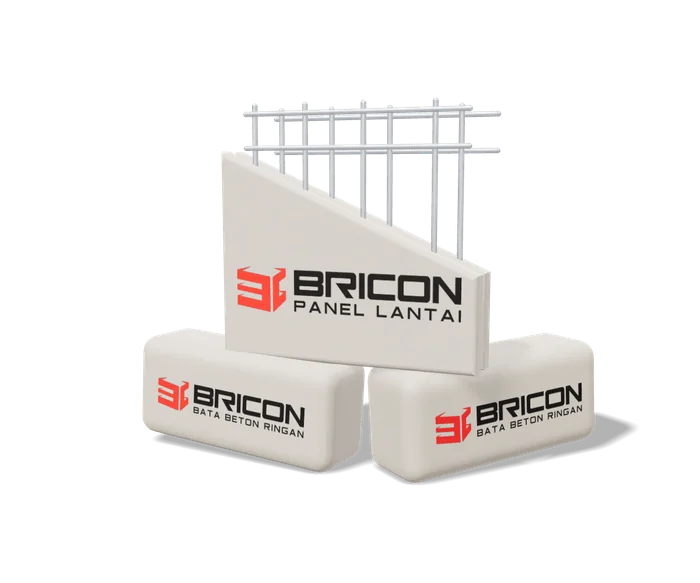
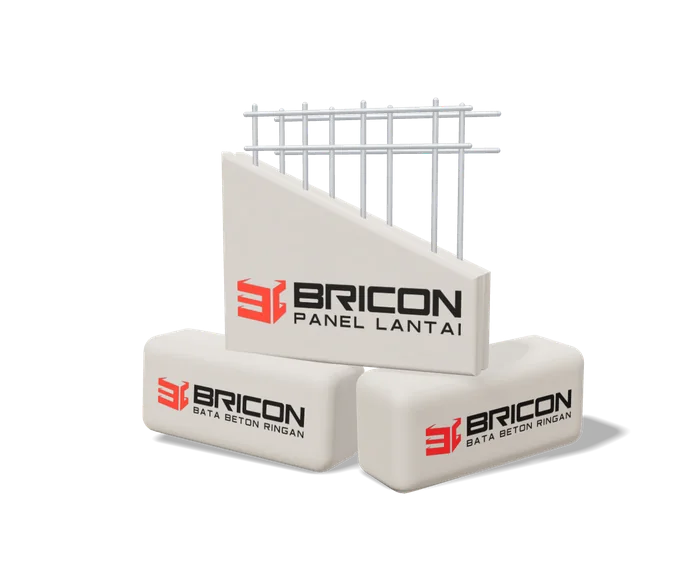
feat: loader melayang polos, posisi 3D baru, teks lebih natural, OG baru
Nilai ?atur Reyhan dipakai dan hero dirender ulang, merk panel hero diturunkan. Loader kembali seperti dulu: bata dan panel polos tanpa merk melayang di posisi lama, lalu menyusun sambil merk muncul. Halaman tidak bisa di-scroll selama loading. Semua teks dibuat lebih natural, headline hero tetap 2 baris tanpa pergeseran layout, dan OG image baru dengan headline 2 baris dan 3 badge sesuai web.

Claude-Session: https://claude.ai/code/session_01XkrxM7aJVBU55g7YgcUYVG

Changed region(s): [[0.51, 0.5866, 0.9, 0.8645], [0.33, 0.4631, 0.66, 0.5866], [0.78, 0.5557, 0.81, 0.5866]]

diff --git a/index.html b/index.html
@@ -52,7 +52,7 @@
 <meta property="og:title" content="Bricon Partner — Bata Ringan &amp; Panel Lantai Jawa Timur">
 <meta property="og:description" content="Bata ringan &amp; panel lantai BRICON berteknologi Microbubble. Stok lengkap, pengiriman cepat, kualitas SNI. Konsultasi gratis via WhatsApp.">
 <meta property="og:locale" content="id_ID">
-<meta property="og:image" content="https://bricon-partner.com/assets/og-image.jpg?v=20261125">
+<meta property="og:image" content="https://bricon-partner.com/assets/og-image.jpg?v=r7">
 <meta property="og:image:width" content="1200">
 <meta property="og:image:height" content="630">
 <meta property="og:image:alt" content="Bricon Partner — Bata Ringan &amp; Panel Lantai BRICON Jawa Timur">
@@ -61,7 +61,7 @@
 <meta name="twitter:card" content="summary_large_image">
 <meta name="twitter:title" content="Bricon Partner — Bata Ringan &amp; Panel Lantai Jawa Timur">
 <meta name="twitter:description" content="Bata ringan &amp; panel lantai BRICON berteknologi Microbubble. Stok lengkap, pengiriman cepat, kualitas SNI.">
-<meta name="twitter:image" content="https://bricon-partner.com/assets/og-image.jpg?v=20261125">
+<meta name="twitter:image" content="https://bricon-partner.com/assets/og-image.jpg?v=r7">
 
 <!-- Canonical -->
 <link rel="canonical" href="https://bricon-partner.com/">
@@ -78,7 +78,7 @@
   "alternateName": ["Bata Ringan Bricon Partner"],
   "description": "Bricon Partner — penyedia Bata Ringan & Panel Lantai BRICON berteknologi Microbubble di Jawa Timur. Stok lengkap, pengiriman cepat, kualitas SNI.",
   "url": "https://bricon-partner.com/",
-  "image": "https://bricon-partner.com/assets/og-image.jpg?v=20261125",
+  "image": "https://bricon-partner.com/assets/og-image.jpg?v=r7",
   "logo": "https://bricon-partner.com/assets/images/bricon-partner-logo-square.png?v=20261123",
   "telephone": "+6285184028183",
   "priceRange": "$$",
@@ -192,7 +192,7 @@
 html{scroll-padding-top:90px}
 html,body{overflow-x:clip}
 body{margin:0;background:var(--paper);color:var(--ink);font-family:"Poppins","Poppins Fallback",sans-serif;-webkit-font-smoothing:antialiased}
-body.locked{overflow:hidden}
+body.locked,html:has(body.locked){overflow:hidden;overscroll-behavior:none}
 a{color:inherit}
 img{max-width:100%;display:block}
 button{font-family:inherit}
@@ -273,9 +273,10 @@ button{font-family:inherit}
 .hero-vis.full .hcomp{visibility:hidden}
 .hstage .hb{translate:-50% -50%}
 #lpz{position:fixed;inset:0;z-index:52;pointer-events:none}
-#lpz .lp{position:absolute;transform-origin:0 0;will-change:transform}
+#lpz .lp,#lpz .lh{position:absolute;transform-origin:50% 50%;will-change:transform,opacity}
+#lpz .lh{opacity:0;display:block;height:auto}
 #lpz .lp img{display:block;width:100%;height:auto;animation:lpb 3.2s ease-in-out infinite}
-#lpz .lp:nth-child(2) img{animation-delay:-1.1s}#lpz .lp:nth-child(3) img{animation-delay:-2.2s}
+#lpz .lp:nth-of-type(2) img{animation-delay:-1.1s}#lpz .lp:nth-of-type(3) img{animation-delay:-2.2s}
 @keyframes lpb{50%{transform:translateY(-12px) rotate(3deg)}}
 .full3d #lpz{display:none}
 .hb{position:absolute;z-index:3;display:inline-flex;align-items:center;gap:8px;padding:9px 15px 9px 11px;border-radius:999px;color:#fff;font-weight:700;font-size:14px;white-space:nowrap;pointer-events:none;
@@ -302,7 +303,7 @@ button{font-family:inherit}
 .hA{background:var(--dark);color:#fff}
 .hA .hero-grid{grid-template-columns:minmax(0,1.05fr) minmax(0,.95fr);gap:24px;padding:84px 0 30px}
 .hA .eyebrow{background:rgba(255,255,255,.08);color:#E6E6EA}
-.hA .h1{font-size:clamp(36px,4.3vw,60px)}.hA .h1 em{font-style:normal;color:var(--yellow)}
+.hA .h1{font-size:clamp(36px,4.3vw,60px)}.hA .h1{height:2.12em;line-height:1.06}.hA .h1 em{font-style:normal;color:var(--yellow)}
 .hA .lead{color:var(--soft)}
 .hA .hero-vis{height:520px}
 .hA .c1{left:0;bottom:3%}.hA .c2{right:0;top:4%}
@@ -787,10 +788,10 @@ button{font-family:inherit}
 <!-- LOADER -->
 <div id="ld" role="status" aria-label="Memuat halaman">
   <img class="logo" src="assets/images/bricon-partner-logo-square.svg" alt="BRICON Partner">
-  <div class="cap"><span class="mph" aria-hidden="true"><svg class="m1"><use href="#i-bata"/></svg><svg class="m2"><use href="#i-panel"/></svg></span>Menyiapkan bata &amp; panel<span class="bar"><i></i></span></div>
+  <div class="cap"><span class="mph" aria-hidden="true"><svg class="m1"><use href="#i-bata"/></svg><svg class="m2"><use href="#i-panel"/></svg></span>Sebentar ya, lagi disiapkan<span class="bar"><i></i></span></div>
 </div>
 <canvas id="g3" aria-hidden="true"></canvas>
-<div id="lpz" aria-hidden="true"><div class="lp" data-b="0.1967,0.5550,0.3317"><img src="assets/images/piece-0.webp" alt="" width="398" height="263"></div><div class="lp" data-b="0.5183,0.5630,0.3375"><img src="assets/images/piece-1.webp" alt="" width="405" height="273"></div><div class="lp" data-b="0.3092,0.1590,0.4142"><img src="assets/images/piece-2.webp" alt="" width="497" height="495"></div></div>
+<div id="lpz" aria-hidden="true"><div class="lp" data-r="0.0360,0.2880,0.2970"><img src="assets/images/float-0.webp" alt="" width="297" height="241"></div><img class="lh" data-r="0.1967,0.5550,0.3317" src="assets/images/piece-0.webp" alt="" width="398" height="263"><div class="lp" data-r="0.6660,0.5640,0.3150"><img src="assets/images/float-1.webp" alt="" width="315" height="194"></div><img class="lh" data-r="0.5017,0.5660,0.3400" src="assets/images/piece-1.webp" alt="" width="408" height="289"><div class="lp" data-r="0.6020,0.0000,0.3070"><img src="assets/images/float-2.webp" alt="" width="307" height="366"></div><img class="lh" data-r="0.3092,0.1590,0.4142" src="assets/images/piece-2.webp" alt="" width="497" height="495"></div>
 
 <header class="nav">
   <div class="nav-in">
@@ -811,7 +812,7 @@ button{font-family:inherit}
       <div class="hero-copy">
         <span class="eyebrow"><b><svg><use href="#i-seal"/></svg>Partner Resmi</b>BRICON Jawa Timur</span>
         <h1 class="h1 d">Bangun lebih cepat dengan bata yang <em>lebih ringan.</em></h1>
-        <p class="lead">Bata ringan &amp; panel lantai BRICON berteknologi Microbubble.<span class="d-only"> Kuat, presisi, dan siap dikirim ke proyekmu di seluruh Jawa Timur.</span></p>
+        <p class="lead">Bata ringan &amp; panel lantai BRICON, langsung dari pabrik.<span class="d-only"> Kami kirim pakai truk ke proyekmu di mana pun di Jawa Timur.</span></p>
         <div class="cta-row">
           <button class="btn btn-red" type="button" data-form="hero"><svg><use href="#i-wa"/></svg>Pesan lewat WhatsApp</button>
           <a class="btn btn-soft-d" href="#produk"><span class="d-only">Lihat ukuran &amp; spesifikasi</span><span class="m-only">Produk</span></a>
@@ -820,16 +821,16 @@ button{font-family:inherit}
       <div class="hero-vis" id="heroVis">
         <div class="floor" aria-hidden="true"><svg viewBox="0 0 100 50" preserveAspectRatio="none"><line x1="50" y1="0" x2="-70.00" y2="50"/><line x1="50" y1="0" x2="-62.50" y2="50"/><line x1="50" y1="0" x2="-55.00" y2="50"/><line x1="50" y1="0" x2="-47.50" y2="50"/><line x1="50" y1="0" x2="-40.00" y2="50"/><line x1="50" y1="0" x2="-32.50" y2="50"/><line x1="50" y1="0" x2="-25.00" y2="50"/><line x1="50" y1="0" x2="-17.50" y2="50"/><line x1="50" y1="0" x2="-10.00" y2="50"/><line x1="50" y1="0" x2="-2.50" y2="50"/><line x1="50" y1="0" x2="5.00" y2="50"/><line x1="50" y1="0" x2="12.50" y2="50"/><line x1="50" y1="0" x2="20.00" y2="50"/><line x1="50" y1="0" x2="27.50" y2="50"/><line x1="50" y1="0" x2="35.00" y2="50"/><line x1="50" y1="0" x2="42.50" y2="50"/><line x1="50" y1="0" x2="50.00" y2="50"/><line x1="50" y1="0" x2="57.50" y2="50"/><line x1="50" y1="0" x2="65.00" y2="50"/><line x1="50" y1="0" x2="72.50" y2="50"/><line x1="50" y1="0" x2="80.00" y2="50"/><line x1="50" y1="0" x2="87.50" y2="50"/><line x1="50" y1="0" x2="95.00" y2="50"/><line x1="50" y1="0" x2="102.50" y2="50"/><line x1="50" y1="0" x2="110.00" y2="50"/><line x1="50" y1="0" x2="117.50" y2="50"/><line x1="50" y1="0" x2="125.00" y2="50"/><line x1="50" y1="0" x2="132.50" y2="50"/><line x1="50" y1="0" x2="140.00" y2="50"/><line x1="50" y1="0" x2="147.50" y2="50"/><line x1="50" y1="0" x2="155.00" y2="50"/><line x1="50" y1="0" x2="162.50" y2="50"/><line x1="50" y1="0" x2="170.00" y2="50"/><line x1="-60" y1="50.00" x2="160" y2="50.00"/><line x1="-60" y1="37.88" x2="160" y2="37.88"/><line x1="-60" y1="30.49" x2="160" y2="30.49"/><line x1="-60" y1="25.51" x2="160" y2="25.51"/><line x1="-60" y1="21.93" x2="160" y2="21.93"/><line x1="-60" y1="19.23" x2="160" y2="19.23"/><line x1="-60" y1="17.12" x2="160" y2="17.12"/><line x1="-60" y1="15.43" x2="160" y2="15.43"/><line x1="-60" y1="14.04" x2="160" y2="14.04"/><line x1="-60" y1="12.89" x2="160" y2="12.89"/><line x1="-60" y1="11.90" x2="160" y2="11.90"/><line x1="-60" y1="11.06" x2="160" y2="11.06"/><line x1="-60" y1="10.33" x2="160" y2="10.33"/><line x1="-60" y1="9.69" x2="160" y2="9.69"/><line x1="-60" y1="9.12" x2="160" y2="9.12"/><line x1="-60" y1="8.62" x2="160" y2="8.62"/><line x1="-60" y1="8.17" x2="160" y2="8.17"/><line x1="-60" y1="7.76" x2="160" y2="7.76"/><line x1="-60" y1="7.40" x2="160" y2="7.40"/><line x1="-60" y1="7.06" x2="160" y2="7.06"/><line x1="-60" y1="6.76" x2="160" y2="6.76"/><line x1="-60" y1="6.48" x2="160" y2="6.48"/><line x1="-60" y1="6.22" x2="160" y2="6.22"/><line x1="-60" y1="5.98" x2="160" y2="5.98"/><line x1="-60" y1="5.76" x2="160" y2="5.76"/><line x1="-60" y1="5.56" x2="160" y2="5.56"/><line x1="-60" y1="5.36" x2="160" y2="5.36"/><line x1="-60" y1="5.19" x2="160" y2="5.19"/><line x1="-60" y1="5.02" x2="160" y2="5.02"/><line x1="-60" y1="4.86" x2="160" y2="4.86"/><line x1="-60" y1="4.72" x2="160" y2="4.72"/><line x1="-60" y1="4.58" x2="160" y2="4.58"/><line x1="-60" y1="4.45" x2="160" y2="4.45"/><line x1="-60" y1="4.33" x2="160" y2="4.33"/><line x1="-60" y1="4.21" x2="160" y2="4.21"/><line x1="-60" y1="4.10" x2="160" y2="4.10"/><line x1="-60" y1="3.99" x2="160" y2="3.99"/><line x1="-60" y1="3.89" x2="160" y2="3.89"/><line x1="-60" y1="3.80" x2="160" y2="3.80"/><line x1="-60" y1="3.71" x2="160" y2="3.71"/><line x1="-60" y1="3.62" x2="160" y2="3.62"/><line x1="-60" y1="3.54" x2="160" y2="3.54"/><line x1="-60" y1="3.46" x2="160" y2="3.46"/><line x1="-60" y1="3.39" x2="160" y2="3.39"/><line x1="-60" y1="3.32" x2="160" y2="3.32"/><line x1="-60" y1="3.25" x2="160" y2="3.25"/><line x1="-60" y1="3.18" x2="160" y2="3.18"/><line x1="-60" y1="3.12" x2="160" y2="3.12"/><line x1="-60" y1="3.06" x2="160" y2="3.06"/><line x1="-60" y1="3.00" x2="160" y2="3.00"/><line x1="-60" y1="2.94" x2="160" y2="2.94"/><line x1="-60" y1="2.89" x2="160" y2="2.89"/><line x1="-60" y1="2.83" x2="160" y2="2.83"/><line x1="-60" y1="2.78" x2="160" y2="2.78"/><line x1="-60" y1="2.74" x2="160" y2="2.74"/><line x1="-60" y1="2.69" x2="160" y2="2.69"/><line x1="-60" y1="2.64" x2="160" y2="2.64"/><line x1="-60" y1="2.60" x2="160" y2="2.60"/><line x1="-60" y1="2.56" x2="160" y2="2.56"/><line x1="-60" y1="2.52" x2="160" y2="2.52"/><line x1="-60" y1="2.48" x2="160" y2="2.48"/><line x1="-60" y1="2.44" x2="160" y2="2.44"/><line x1="-60" y1="2.40" x2="160" y2="2.40"/><line x1="-60" y1="2.36" x2="160" y2="2.36"/><line x1="-60" y1="2.33" x2="160" y2="2.33"/><line x1="-60" y1="2.29" x2="160" y2="2.29"/><line x1="-60" y1="2.26" x2="160" y2="2.26"/><line x1="-60" y1="2.23" x2="160" y2="2.23"/><line x1="-60" y1="2.20" x2="160" y2="2.20"/><line x1="-60" y1="2.17" x2="160" y2="2.17"/><line x1="-60" y1="2.14" x2="160" y2="2.14"/><line x1="-60" y1="2.11" x2="160" y2="2.11"/><line x1="-60" y1="2.08" x2="160" y2="2.08"/><line x1="-60" y1="2.05" x2="160" y2="2.05"/><line x1="-60" y1="2.03" x2="160" y2="2.03"/><line x1="-60" y1="2.00" x2="160" y2="2.00"/><line x1="-60" y1="1.97" x2="160" y2="1.97"/><line x1="-60" y1="1.95" x2="160" y2="1.95"/><line x1="-60" y1="1.93" x2="160" y2="1.93"/><line x1="-60" y1="1.90" x2="160" y2="1.90"/><line x1="-60" y1="1.88" x2="160" y2="1.88"/><line x1="-60" y1="1.86" x2="160" y2="1.86"/><line x1="-60" y1="1.84" x2="160" y2="1.84"/><line x1="-60" y1="1.81" x2="160" y2="1.81"/><line x1="-60" y1="1.79" x2="160" y2="1.79"/><line x1="-60" y1="1.77" x2="160" y2="1.77"/><line x1="-60" y1="1.75" x2="160" y2="1.75"/><line x1="-60" y1="1.73" x2="160" y2="1.73"/><line x1="-60" y1="1.71" x2="160" y2="1.71"/><line x1="-60" y1="1.70" x2="160" y2="1.70"/><line x1="-60" y1="1.68" x2="160" y2="1.68"/><line x1="-60" y1="1.66" x2="160" y2="1.66"/><line x1="-60" y1="1.64" x2="160" y2="1.64"/><line x1="-60" y1="1.63" x2="160" y2="1.63"/><line x1="-60" y1="1.61" x2="160" y2="1.61"/></svg></div>
         <div class="hstage" id="hstage">
-          <span class="glow" aria-hidden="true" style="left:55.01%;top:62.03%;width:110.0%"></span>
+          <span class="glow" aria-hidden="true" style="left:56.20%;top:58.01%;width:130.0%"></span>
           <img class="hcomp" src="assets/images/hero-3d-1200.webp" srcset="assets/images/hero-3d-700.webp 700w, assets/images/hero-3d-1200.webp 1200w" sizes="(max-width:900px) 100vw, 46vw" width="1200" height="1000" alt="Bata ringan dan panel lantai BRICON" fetchpriority="high">
-          <span class="hb hb-stok" aria-hidden="true" style="left:20.00%;top:50.00%"><svg><use href="#i-box"/></svg>Stok Lengkap</span>
-          <span class="hb hb-kirim" aria-hidden="true" style="left:39.99%;top:90.02%"><svg><use href="#i-bolt"/></svg>Pengiriman Cepat</span>
-          <span class="hb hb-mutu" aria-hidden="true" style="left:79.00%;top:28.00%"><svg><use href="#i-seal"/></svg>Kualitas SNI</span>
+          <span class="hb hb-stok" aria-hidden="true" style="left:29.30%;top:41.29%"><svg><use href="#i-box"/></svg>Stok Lengkap</span>
+          <span class="hb hb-kirim" aria-hidden="true" style="left:33.35%;top:71.13%"><svg><use href="#i-bolt"/></svg>Pengiriman Cepat</span>
+          <span class="hb hb-mutu" aria-hidden="true" style="left:74.65%;top:53.46%"><svg><use href="#i-seal"/></svg>Kualitas SNI</span>
         </div>
       </div>
     </div>
     <div class="hero-foot">
-      <span><svg><use href="#i-check"/></svg>Dipercaya kontraktor, tukang &amp; owner proyek</span>
+      <span><svg><use href="#i-check"/></svg>Dipakai kontraktor, tukang &amp; pemilik rumah</span>
       <span><svg><use href="#i-check"/></svg>Konsultasi &amp; survey gratis</span>
       <span><svg><use href="#i-check"/></svg>Panel lantai termasuk jasa pasang</span>
     </div>
@@ -842,24 +843,24 @@ button{font-family:inherit}
 <section class="sec" id="kenal">
   <div class="wrap">
     <div class="kenal-head">
-      <h2 class="h2 d">Dinding &amp; lantai, dari satu pabrik.</h2>
-      <p class="sub">Satu supplier untuk dua kebutuhan, jadi jadwal kirim tidak perlu dikejar ke dua tempat.</p>
+      <h2 class="h2 d">Bata buat dinding, panel buat lantai.</h2>
+      <p class="sub">Dua-duanya bisa diambil di sini, jadi kamu cukup atur jadwal kirim dengan satu admin.</p>
     </div>
     <div class="kenal">
       <div class="kv-wrap"><span class="kv-glow gb" aria-hidden="true"></span><div class="kv"></div><div class="kv-img" id="kvBata" style="background-image:url(assets/images/kenal-bata.webp)"></div><span class="dv"><span>200 mm</span></span><span class="dh"><span>600 mm</span></span></div>
       <div class="kb">
-        <span class="tag">Produk 01 — Dinding</span>
+        <span class="tag">Produk 01 · Dinding</span>
         <h3 class="d">Bata Ringan <u>BRICON</u></h3>
-        <p>Bata ringan AAC dengan teknologi microbubble: rongga udara mikro yang membuatnya ringan tanpa mengorbankan kekuatan. Dicetak presisi dengan sudut siku, jadi plesteran lebih tipis dan mortar jauh lebih hemat.</p>
+        <p>Bata ringan AAC yang di dalamnya penuh gelembung udara kecil, makanya enteng diangkat tapi tetap keras. Ukurannya rata dan sudutnya siku, jadi plesterannya bisa tipis dan mortarnya irit.</p>
         <ul><li><svg><use href="#i-weight"/></svg>Berat jenis 600 kg/m³</li><li><svg><use href="#i-shield"/></svg>Kuat tekan &gt;4 N/mm²</li><li><svg><use href="#i-fire"/></svg>Tahan api 4 jam</li></ul>
       </div>
     </div>
     <div class="kenal rev">
       <div class="kv-wrap"><span class="kv-glow gp" aria-hidden="true"></span><div class="kv"></div><div class="kv-img" id="kvPanel" style="background-image:url(assets/images/kenal-panel.webp)"></div><span class="dv"><span>lebar 600 mm</span></span><span class="dh"><span>panjang 2–6 m</span></span></div>
       <div class="kb">
-        <span class="tag">Produk 02 — Lantai</span>
+        <span class="tag">Produk 02 · Lantai</span>
         <h3 class="d">Panel Lantai <u>BRICON</u></h3>
-        <p>Beton ringan pracetak pengganti dak cor. Bertulang besi anti karat, dicetak di pabrik dengan standar teknologi Jerman. Tanpa bekisting dan tanpa cor di tempat, jadi waktu, biaya, dan tenaga turun sekaligus.</p>
+        <p>Panel beton ringan buat ganti dak cor. Di dalamnya ada besi tulangan anti karat, dicetak di pabrik pakai teknologi Jerman. Datang sudah jadi, tinggal dipasang. Nggak perlu bekisting, nggak perlu ngecor di lokasi.</p>
         <ul><li><svg><use href="#i-weight"/></svg>Berat jenis 700 kg/m³</li><li><svg><use href="#i-shield"/></svg>Kuat tekan &gt;4 N/mm²</li><li><svg><use href="#i-ruler"/></svg>Panjang 2–6 m</li></ul>
       </div>
     </div>
@@ -869,7 +870,7 @@ button{font-family:inherit}
 <!-- PRODUK -->
 <section class="sec" id="produk">
   <div class="wrap">
-    <h2 class="h2 d">Pilih ukurannya, angkanya langsung terhitung.</h2>
+    <h2 class="h2 d">Pilih ukurannya, hitungannya keluar sendiri.</h2>
     <div class="seg" role="tablist" aria-label="Pilih produk"><span class="seg-ind" aria-hidden="true"></span>
       <button type="button" role="tab" class="on" data-p="bata" aria-selected="true"><svg><use href="#i-bata"/></svg>Bata Ringan</button>
       <button type="button" role="tab" data-p="panel" aria-selected="false"><svg><use href="#i-panel"/></svg>Panel Lantai</button>
@@ -908,21 +909,21 @@ button{font-family:inherit}
 <!-- MICROBUBBLE (dipindah ke bawah produk) -->
 <section class="sec" id="keunggulan">
   <div class="wrap">
-    <h2 class="h2 d">Ringan di pundak tukang, kokoh di bangunan.</h2>
-    <p class="sub">Semua keunggulan BRICON berasal dari satu hal: rongga udara mikro yang seragam di setiap blok.</p>
+    <h2 class="h2 d">Enteng buat tukang, awet buat rumah.</h2>
+    <p class="sub">Rahasianya ada di gelembung udara kecil yang tersebar rata di setiap blok.</p>
     <div class="bento">
       <div class="tile t-mb">
         <img src="assets/images/microbubble-macro.webp" loading="lazy" decoding="async" alt="Pori microbubble pada bata ringan BRICON">
         <div class="in">
           <h3 class="d">Teknologi Microbubble</h3>
-          <p>Gelembung udara mikro bikin bata tetap ringan tanpa mengorbankan kekuatan, kombinasi yang tidak dimiliki bata konvensional.</p>
+          <p>Gelembung udara kecil di dalam bata bikin beratnya turun jauh, tapi kekuatannya tetap. Bata merah biasa nggak punya ini.</p>
           <div class="marq" aria-label="Keunggulan microbubble"><div class="marq-tr" id="marq"></div></div>
         </div>
       </div>
-      <div class="tile t-stat"><svg class="wm" aria-hidden="true"><use href="#i-weight"/></svg><div class="big">600<u>kg/m³</u></div><p>Berat jenis bata. Beban struktur bangunan ikut turun.</p></div>
-      <div class="tile t-stat"><svg class="wm" aria-hidden="true"><use href="#i-cubealt"/></svg><div class="big">8,3<u>pcs/m²</u></div><p>Ukurannya besar, dinding cepat naik dengan plester lebih tipis.</p></div>
+      <div class="tile t-stat"><svg class="wm" aria-hidden="true"><use href="#i-weight"/></svg><div class="big">600<u>kg/m³</u></div><p>Berat jenis bata. Dinding enteng, beban rumah ikut ringan.</p></div>
+      <div class="tile t-stat"><svg class="wm" aria-hidden="true"><use href="#i-cubealt"/></svg><div class="big">8,3<u>pcs/m²</u></div><p>Cuma sekitar 8 biji per m², dinding cepat naik.</p></div>
       <div class="tile t-promo">
-        <div><h3 class="d">Gratis 8 sak Maju Mortar.</h3><p>Bonus perekat bata ringan untuk setiap pembelian 1 truk (11,52 m³) Bata Ringan BRICON.</p><a href="https://wa.me/6285184028183" data-form="promo">Klaim promonya <svg width="18" height="18"><use href="#i-arrow"/></svg></a></div>
+        <div><h3 class="d">Gratis 8 sak Maju Mortar.</h3><p>Tiap beli 1 truk bata ringan (11,52 m³), kamu dapat 8 sak perekat Maju Mortar.</p><a href="https://wa.me/6285184028183" data-form="promo">Ambil bonusnya <svg width="18" height="18"><use href="#i-arrow"/></svg></a></div>
         <img src="assets/images/promo-maju-mortar-640.webp" loading="lazy" decoding="async" alt="Maju Mortar perekat bata ringan 40 kg">
       </div>
     </div>
@@ -934,9 +935,9 @@ button{font-family:inherit}
   <div class="wrap">
     <div class="area">
       <div>
-        <h2 class="h2 d">Kami antar ke seluruh Jawa Timur.</h2>
+        <h2 class="h2 d">Kami antar sampai lokasi, se-Jawa Timur.</h2>
         <label class="search"><svg viewBox="0 0 24 24" fill="none" stroke="currentColor" stroke-width="2" stroke-linecap="round"><circle cx="11" cy="11" r="7"/><path d="M20 20l-3.5-3.5"/></svg><input type="text" id="cari" placeholder="Cek desa, kecamatan, atau kabupatenmu" aria-label="Cari wilayah"><span class="btn btn-ink">Cek harga</span></label>
-        <p class="area-note">Kotamu tidak ada di daftar? Tetap kami kirim selama minimal order 1 truk terpenuhi. <a href="https://wa.me/6285184028183" data-form="area">Tanya ongkos kirim →</a></p>
+        <p class="area-note">Kotamu nggak ada di daftar? Tetap bisa dikirim, asal minimal 1 truk. <a href="https://wa.me/6285184028183" data-form="area">Tanya ongkos kirim →</a></p>
       </div>
       <div class="area-r">
         <div class="cloud" id="cloud" role="tablist" aria-label="Pilih kota"></div>
@@ -945,7 +946,7 @@ button{font-family:inherit}
           <div class="prow"><i><svg><use href="#i-bata"/></svg></i><span>Bata Ringan<small>per m³ · tebal 10 cm · min. 1 truk</small></span><b id="bataPrice">Rp 740.000</b></div>
           <div class="prow"><i><svg><use href="#i-panel"/></svg></i><span>Panel Lantai<small>per m² · sudah terpasang</small></span><b class="ask">Tanya via WA</b></div>
           <button class="btn btn-red" type="button" data-form="harga"><svg><use href="#i-wa"/></svg><span id="cityCta">Minta penawaran Surabaya</span></button>
-          <p class="pnote">Harga bisa berubah mengikuti harga pabrik. Harga pasti dikirim admin setelah kecamatan diketahui.</p>
+          <p class="pnote">Harga ikut harga pabrik, jadi bisa berubah. Admin kirim harga pastinya setelah tahu kecamatanmu.</p>
         </div>
       </div>
     </div>
@@ -955,14 +956,14 @@ button{font-family:inherit}
 <!-- ULASAN -->
 <section class="sec" id="ulasan">
   <div class="wrap">
-    <h2 class="h2 d">Kata mereka yang sudah pakai BRICON.</h2>
+    <h2 class="h2 d">Dari pembeli yang sudah pakai.</h2>
     <div class="revs">
       <figure class="tf" style="margin:0">
         <span class="ptag"><svg><use href="#i-panel"/></svg>Panel Lantai</span>
         <svg class="qm" aria-hidden="true"><use href="#i-quote"/></svg>
         <div class="stars" role="img" aria-label="5 dari 5 bintang"><svg><use href="#i-star"/></svg><svg><use href="#i-star"/></svg><svg><use href="#i-star"/></svg><svg><use href="#i-star"/></svg><svg><use href="#i-star"/></svg></div>
         <blockquote>Pengiriman tepat waktu. Bata rapi &amp; presisi. Harga bersaing. Admin responsif.</blockquote>
-        <footer><span class="av"><svg><use href="#i-user"/></svg></span><span><b>Julius</b><small><svg width="11" height="11" style="color:var(--yellow)"><use href="#i-pin"/></svg>Mojokerto — Pungging</small></span></footer>
+        <footer><span class="av"><svg><use href="#i-user"/></svg></span><span><b>Julius</b><small><svg width="11" height="11" style="color:var(--yellow)"><use href="#i-pin"/></svg>Pungging, Mojokerto</small></span></footer>
       </figure>
 
     </div>
@@ -973,8 +974,8 @@ button{font-family:inherit}
 <section class="sec" id="faq">
   <div class="wrap faq">
     <div class="faq-side">
-      <h2 class="h2 d">Yang biasa ditanyakan sebelum order.</h2>
-      <p class="sub">Belum ketemu jawabannya? Tanya langsung saja, kami balas cepat.</p>
+      <h2 class="h2 d">Yang sering ditanya sebelum pesan.</h2>
+      <p class="sub">Pertanyaanmu nggak ada di sini? Chat saja, admin biasanya cepat balas.</p>
       <button class="btn btn-red" type="button" data-form="faq"><svg><use href="#i-wa"/></svg>Tanya langsung via WhatsApp</button>
     </div>
     <div class="qas" id="qas"></div>
@@ -985,8 +986,8 @@ button{font-family:inherit}
 <section class="close" id="kontak">
   <div class="wrap close-grid">
     <div>
-      <h2 class="d">Siap mulai proyekmu? Ngobrol dulu, gratis.</h2>
-      <p class="lead">Kirim ukuran dan lokasi proyekmu, kami bantu hitung kebutuhan bata dan ongkos kirimnya.</p>
+      <h2 class="d">Mau mulai bangun? Ngobrol dulu aja, gratis.</h2>
+      <p class="lead">Kirim ukuran rumah dan lokasimu, nanti admin bantu hitung butuh berapa bata dan ongkos kirimnya.</p>
       <div class="cta-row"><button class="btn btn-white" type="button" data-form="kontak"><svg><use href="#i-wa"/></svg>Konsultasi via WhatsApp</button></div>
     </div>
     <div class="contact">
@@ -1006,7 +1007,7 @@ button{font-family:inherit}
 <footer class="foot">
   <div class="wrap">
     <div class="foot-top">
-      <div><img src="assets/images/bricon-partner-logo.svg" alt="BRICON Partner"><p>Distributor Bata Ringan &amp; Panel Lantai BRICON berteknologi Microbubble. Stok lengkap, pengiriman cepat ke seluruh Jawa Timur.</p></div>
+      <div><img src="assets/images/bricon-partner-logo.svg" alt="BRICON Partner"><p>Distributor bata ringan &amp; panel lantai BRICON di Krian, Sidoarjo. Kirim pakai truk ke seluruh Jawa Timur.</p></div>
       <div class="foot-links">
         <div><small>Halaman wilayah</small><a href="kota/surabaya.html">Bata Ringan Surabaya</a><a href="kota/mojokerto.html">Bata Ringan Mojokerto</a></div>
         <div><small>Kontak</small><a href="#kontak">0851-8402-8183</a><span>Sidoarjo, Jawa Timur</span></div>
@@ -1066,12 +1067,12 @@ var P={prod:'bata',tebal:'100',bentang:'3000',mode:'utuh'};
 function renderCard(){
   var b=P.prod==='bata',d;
   if(b){var t=+P.tebal/1000,vol=.6*.2*t;
-    d={name:'Bata Ringan BRICON',tlD:'Bata AAC presisi dan siku: plester lebih tipis, mortar lebih hemat.',tlM:'Presisi & siku, plester lebih tipis.',dim:['600','200',P.tebal],hi:2,pick:'Varian ketebalan',
+    d={name:'Bata Ringan BRICON',tlD:'Ukurannya rata dan siku, plester bisa tipis.',tlM:'Rata dan siku, plester bisa tipis.',dim:['600','200',P.tebal],hi:2,pick:'Varian ketebalan',
       opts:[['75','7,5 cm'],['100','10 cm'],['125','12,5 cm']],key:'tebal',
       stats:[['Berat per pcs',dec(vol*600,1),'kg'],['Isi per m³',String(Math.round(1/vol)),'pcs'],['Dinding per m³',dec(1/t,2),'m²']],cta:'Tanya harga bata ringan',
       tag:'Produk 01 · Dinding',ico:'#i-bata',perkI:'#i-gift',perkT:'Gratis 8 sak Maju Mortar',perkS:'untuk setiap pembelian 1 truk'};
   }else{var pj=+P.bentang/1000,luas=pj*.6;
-    d={name:'Panel Lantai BRICON',tlD:'Pengganti dak cor: tanpa bekisting, tanpa cor di tempat.',tlM:'Pengganti dak cor, cepat pasang.',dim:[P.bentang,'600','125'],hi:0,pick:'Panjang panel (bisa 2–6 m)',
+    d={name:'Panel Lantai BRICON',tlD:'Ganti dak cor, tanpa bekisting dan tanpa ngecor.',tlM:'Ganti dak cor, cepat dipasang.',dim:[P.bentang,'600','125'],hi:0,pick:'Panjang panel (bisa 2–6 m)',
       opts:[['2000','2 m'],['3000','3 m'],['4000','4 m'],['5000','5 m'],['6000','6 m']],key:'bentang',
       stats:[['Luas per panel',dec(luas,2),'m²'],['Berat per panel',String(Math.round(luas*.125*700)),'kg'],['Untuk 10 m²',String(Math.ceil(10/luas)),'panel']],cta:'Tanya harga panel lantai',
       tag:'Produk 02 · Lantai',ico:'#i-panel',perkI:'#i-tool',perkT:'Gratis survey & jasa pasang',perkS:'dicetak pabrik, terpasang rapi'};
@@ -1123,9 +1124,9 @@ els.forEach(function(el){io.observe(el)});})();
 /* semua headline maksimal 2 baris di semua layar */
 (function(){var SEL='.h1,.h2,.kb h3,.close h2,.pcard h3,.tile h3';
 function fit(){$$(SEL).forEach(function(el){el.style.fontSize='';var fs=parseFloat(getComputedStyle(el).fontSize),n=0;
-  function lines(){var cs=getComputedStyle(el),lh=parseFloat(cs.lineHeight)||fs*1.06;return Math.round(el.getBoundingClientRect().height/lh)}
+  function lines(){var cs=getComputedStyle(el),lh=parseFloat(cs.lineHeight)||fs*1.06;return Math.round(Math.max(el.scrollHeight,el.getBoundingClientRect().height)/lh)}
   while(lines()>2&&fs>15&&n<60){fs-=1;el.style.fontSize=fs+'px';n++}})}
-window.fitHeads=fit;fit();if(document.fonts)document.fonts.ready.then(fit);var t;addEventListener('resize',function(){clearTimeout(t);t=setTimeout(fit,120)});})();
+window.fitHeads=fit;fit();if(document.fonts){document.fonts.ready.then(fit);document.fonts.addEventListener&&document.fonts.addEventListener('loadingdone',fit)}var t;addEventListener('resize',function(){clearTimeout(t);t=setTimeout(fit,120)});})();
 /* dock HP muncul setelah hero */
 (function(){var io=new IntersectionObserver(function(e){$('#dock').classList.toggle('on',!e[0].isIntersecting)},{threshold:.1});io.observe($('#top'))})();
 
@@ -1198,6 +1199,8 @@ document.addEventListener('keydown',function(e){if(e.key==='Escape')closeForm()}
 
 /* ===================== 3D: dimuat hanya saat dibutuhkan ===================== */
 var FULL=/[?&](atur|export)\b/.test(location.search);
+(function(){var K={32:1,33:1,34:1,35:1,36:1,38:1,40:1},b=function(e){if(document.body.classList.contains('locked')&&(e.type!=='keydown'||K[e.keyCode]))e.preventDefault()};
+  ['wheel','touchmove','keydown'].forEach(function(t){addEventListener(t,b,{passive:false})});if('scrollRestoration' in history)history.scrollRestoration='manual';scrollTo(0,0)})();
 function load3D(){if(load3D.d)return;load3D.d=1;var s=document.createElement('script');s.type='module';s.textContent=document.getElementById('m3d').textContent;document.body.appendChild(s)}
 if(FULL){document.documentElement.classList.add('full3d');document.readyState==='loading'?document.addEventListener('DOMContentLoaded',load3D):load3D();window.__ldFail=setTimeout(function(){finishLoader()},9000)}
 else{var io3=new IntersectionObserver(function(e){if(e[0].isIntersecting){io3.disconnect();load3D()}},{rootMargin:'600px 0px'});io3.observe($('#stage'))}
@@ -1205,22 +1208,26 @@ else{var io3=new IntersectionObserver(function(e){if(e[0].isIntersecting){io3.di
 /* ===================== LOADER: bata & panel melayang lalu menyusun di hero ===================== */
 (function(){if(FULL)return;var lpz=$('#lpz'),ld=$('#ld'),img=$('.hcomp'),st=$('#hstage');
   var RMq=matchMedia('(prefers-reduced-motion: reduce)').matches,t0=performance.now(),done=false;
-  var lps=$$('#lpz .lp'),FL=[[.06,.16,-14],[.62,.64,12],[.6,.1,-8]];
-  function lay(){var W=innerWidth,H=innerHeight,s=Math.min(W,H);lps.forEach(function(el,i){var f=FL[i],w=s*(i===2?.36:.34)*(W<700?1:.8);el.style.width=w+'px';el.style.left=(f[0]*W)+'px';el.style.top=(f[1]*H)+'px';el.style.transform='rotate('+f[2]+'deg)'})}
+  var lfs=$$('#lpz .lp'),lhs=$$('#lpz .lh'),R=function(el){return el.dataset.r.split(',').map(Number)};
+  function lay(){var W=innerWidth,H=innerHeight,S=Math.min(W,H),ox=(W-S)/2,oy=(H-S)/2;lfs.forEach(function(el){var r=R(el);el.style.left=(ox+r[0]*S)+'px';el.style.top=(oy+r[1]*S)+'px';el.style.width=(r[2]*S)+'px'})}
   lay();addEventListener('resize',function(){if(!done)lay()});
   function go(){if(done)return;done=true;scrollTo(0,0);
     if(RMq){finishLoader();lpz.remove();return}
     ld.classList.add('go');var S=st.getBoundingClientRect();
-    lps.forEach(function(el,i){var b=el.dataset.b.split(',').map(Number),x0=parseFloat(el.style.left),y0=parseFloat(el.style.top),w0=parseFloat(el.style.width);
-      var tx=S.left+b[0]*S.width,ty=S.top+b[1]*S.height,tw=b[2]*S.width;
-      el.querySelector('img').style.animation='none';
-      el.style.transition='transform 1.05s cubic-bezier(.34,1.25,.64,1) '+(i*.06)+'s';
-      el.style.transform='translate('+(tx-x0)+'px,'+(ty-y0)+'px) scale('+(tw/w0)+')'});
+    lfs.forEach(function(el,i){var h=lhs[i];if(!h)return;el.querySelector('img').style.animation='none';var f=el.getBoundingClientRect(),r=R(h);
+      var hw=r[2]*S.width,hl=S.left+r[0]*S.width,ht=S.top+r[1]*S.height,hh=hw*(h.naturalHeight||1)/(h.naturalWidth||1);
+      h.style.left=hl+'px';h.style.top=ht+'px';h.style.width=hw+'px';
+      var dx=(f.left+f.width/2)-(hl+hw/2),dy=(f.top+f.height/2)-(ht+hh/2),k=f.width/hw;
+      h.style.transition='none';h.style.transform='translate('+dx+'px,'+dy+'px) scale('+k+')';void h.offsetWidth;
+      var tr='transform 1.05s cubic-bezier(.34,1.25,.64,1) '+(i*.06)+'s, opacity .5s ease '+(i*.06+.2)+'s';
+      h.style.transition=tr;el.style.transition=tr;
+      h.style.transform='none';h.style.opacity='1';
+      el.style.transform='translate('+(-dx)+'px,'+(-dy)+'px) scale('+(1/k)+')';el.style.opacity='0'});
     setTimeout(function(){finishLoader()},1150);
     setTimeout(function(){lpz.style.transition='opacity .35s';lpz.style.opacity='0'},1500);
     setTimeout(function(){lpz.remove()},1900)}
   var ok=img.complete?Promise.resolve():new Promise(function(r){img.addEventListener('load',r,{once:true});img.addEventListener('error',r,{once:true})});
-  var pc=Promise.all(lps.map(function(el){var m=el.querySelector('img');return m.complete?0:new Promise(function(r){m.onload=m.onerror=r})}));
+  var pc=Promise.all(lfs.concat(lhs).map(function(el){var m=el.tagName==='IMG'?el:el.querySelector('img');return m.complete?0:new Promise(function(r){m.onload=m.onerror=r})}));
   Promise.all([ok,pc,document.fonts?Promise.race([document.fonts.ready,new Promise(function(r){setTimeout(r,1800)})]):0]).then(function(){setTimeout(go,Math.max(0,1100-(performance.now()-t0)))});
   setTimeout(go,4500);})();
 var __fin=false;function finishLoader(){var l=$('#ld');if(__fin)return;__fin=true;l.classList.add('go','out');document.body.classList.remove('locked');document.body.classList.add('ready');var g=$('#g3');if(g&&!g.classList.contains('parked'))g.style.display='none';if(!FULL){var lz=$('#lpz');lz&&FULL&&lz.remove()}if(!l)return;setTimeout(function(){l&&l.remove()},700)}
@@ -1235,20 +1242,20 @@ const RM = matchMedia('(prefers-reduced-motion: reduce)').matches;
 /* posisi & sudut model 3D. Satuan: posisi = 1 unit ≈ 10 cm, sudut = derajat */
 const CFG0={
   heroBataKiri:{x:-3,y:.12,z:-.35,rx:0,ry:-19.5,rz:-3.4},
-  heroBataKanan:{x:3.75,y:.12,z:-.6,rx:0,ry:38,rz:3.4},
+  heroBataKanan:{x:3.45,y:.05,z:-.15,rx:5,ry:40,rz:1},
   heroPanel:{x:.15,y:-.05,z:.45,rx:0,ry:-13.5,rz:0},
   heroKamera:{jarak:7.7,tinggi:.14,geser:.16},
-  badgeStok:{x:-6.13,y:4.62,z:0},
-  badgeMutu:{x:5.4,y:8.26,z:0},
-  badgeKirim:{x:-1.82,y:-1.73,z:1},
-  lingkaranMerah:{x:.99,y:2.8,z:0,besar:1.1},
+  badgeStok:{x:-5.05,y:6.82,z:.3},
+  badgeMutu:{x:5.9,y:4.05,z:0},
+  badgeKirim:{x:-3.95,y:-.4,z:1},
+  lingkaranMerah:{x:1.5,y:2.8,z:-.15,besar:1.3},
   bata:{rx:-24,ry:35,rz:3.5,jarak:10.9},
   panel:{rx:-20.5,ry:-31.5,rz:0,jarak:19.6}};
 const LOW=!!window.BP_LOW,MOB=!!window.BP_MOB,SHM=LOW?512:(MOB?1024:2048),BLUR=LOW?8:(MOB?12:22);
 const DEG=Math.PI/180,TUNE=new URLSearchParams(location.search).has('atur'),FULL=TUNE||new URLSearchParams(location.search).has('export');
 const heroVis=document.getElementById('heroVis'),hstage=document.getElementById('hstage');
 let CFG=JSON.parse(JSON.stringify(CFG0));
-if(TUNE){try{const sv=JSON.parse(localStorage.getItem('bp-3d-v2')||'null');if(sv)for(const k in sv)if(CFG[k])Object.assign(CFG[k],sv[k])}catch(e){}}
+if(TUNE){try{const sv=JSON.parse(localStorage.getItem('bp-3d-v3')||'null');if(sv)for(const k in sv)if(CFG[k])Object.assign(CFG[k],sv[k])}catch(e){}}
 
 /* ---------- tekstur AAC prosedural (dibagi semua renderer) ---------- */
 function rng(seed){return ()=>{seed|=0;seed=seed+0x6D2B79F5|0;let t=Math.imul(seed^seed>>>15,1|seed);t=t+Math.imul(t^t>>>7,61|t)^t;return((t^t>>>14)>>>0)/4294967296}}
@@ -1341,7 +1348,7 @@ function Kit(renderer){
       const xs=[-2.78,-1.26,.42,2.38].map(x=>x+dx),yTop=hl+up+dy,y1=hl+.08+dy,y2=hl+1.0+dy;
       xs.forEach(x=>bar(new THREE.Vector3(x,.5,z),new THREE.Vector3(x,yTop,z),rV));
       for(const y of[y1,y2])bar(new THREE.Vector3(-3.0+dx,y,z+(z>0?.105:-.105)),new THREE.Vector3(3.3+dx,y,z+(z>0?.105:-.105)),rH)});
-    const l=label(clay?'panel_c':'panel',clay?6.4:6.7,clay);l.position.set(clay?.05:(o.lx??.05),clay?1.95:1.95,T/2+(clay?.012:.035));g.add(l);
+    const l=label(clay?'panel_c':'panel',clay?6.4:6.7,clay);l.position.set(clay?.05:(o.lx??.05),clay?1.62:1.95,T/2+(clay?.012:.035));g.add(l);
     g.userData.top=top;return g}
   /* panel utuh (untuk viewer produk) */
   function panelFull(L){const g=new THREE.Group(),W=6,T=1.25,cover=.28,yB=-T/2+cover,yT=T/2-cover;
@@ -1450,6 +1457,9 @@ window.__export=()=>{const W=1200,H=1000,out={pieces:[]};R1.setPixelRatio(1);R1.
     for(let i=0;i<8;i++){c.set(i&1?bx.max.x:bx.min.x,i&2?bx.max.y:bx.min.y,i&4?bx.max.z:bx.min.z).project(cam);const u=c.x*.5+.5,v=-c.y*.5+.5;u0=Math.min(u0,u);u1=Math.max(u1,u);v0=Math.min(v0,v);v1=Math.max(v1,v)}
     out.pieces.push({img:g3.toDataURL('image/png'),b:[u0,v0,u1,v1]})});
   FORM.forEach(g=>g.o.visible=true);L1.ground.material.opacity=.3;
+  out.float=[];R1.setSize(1000,1000,false);cam.aspect=1;cam.position.copy(VIEW).multiplyScalar(fitDist(cam,11.5));cam.lookAt(0,.15,0);cam.updateProjectionMatrix();setClay(1);L1.ground.material.opacity=0;
+  FORM.forEach((f,i)=>{FORM.forEach(g=>g.o.visible=g===f);f.o.position.copy(FLOAT[i].p);f.o.rotation.copy(FLOAT[i].r);R1.render(S1,cam);out.float.push(g3.toDataURL('image/png'))});
+  FORM.forEach(g=>g.o.visible=true);placeForm(1);setClay(0);L1.ground.material.opacity=.3;
   out.badges={};['badgeStok','badgeMutu','badgeKirim'].forEach(k=>{out.badges[k]=proj(CFG[k])});out.glow=[...proj(CFG.lingkaranMerah),CFG.lingkaranMerah.besar];
   const r=hstage.getBoundingClientRect();R1.setPixelRatio(Math.min(devicePixelRatio,2));size(r.width,r.height);return out};
 }
@@ -1539,7 +1549,7 @@ body.tuning .dock{display:none!important}
   const TABS={hero:[['heroBataKiri','Bata kiri'],['heroBataKanan','Bata kanan'],['heroPanel','Panel'],['heroKamera','Kamera']],badge:[['badgeStok','Badge Stok Lengkap'],['badgeMutu','Badge Kualitas SNI'],['badgeKirim','Badge Pengiriman Cepat'],['lingkaranMerah','Lingkaran merah']],bata:[['bata','Bata · foto deskripsi']],panel:[['panel','Panel · foto deskripsi']]};
   const el=document.createElement('div');el.id='tune';el.innerHTML=`<header><b>Atur posisi 3D</b><button type="button" data-a="min">Kecilkan</button></header><div class="tabs"><button type="button" data-t="hero" class="on">Hero</button><button type="button" data-t="badge">Badge</button><button type="button" data-t="bata">Bata</button><button type="button" data-t="panel">Panel</button></div><div class="body"></div><div class="act"><button type="button" data-a="reset">Reset</button><button type="button" class="main" data-a="copy">Salin nilai</button></div>`;document.body.appendChild(el);
   const body=el.querySelector('.body');let tab='hero',q=new Set(),raf=0;
-  const save=()=>{try{localStorage.setItem('bp-3d-v2',JSON.stringify(CFG))}catch(e){}};
+  const save=()=>{try{localStorage.setItem('bp-3d-v3',JSON.stringify(CFG))}catch(e){}};
   const flush=()=>{raf=0;if([...q].some(k=>k.startsWith('hero')||k.startsWith('badge')||k==='lingkaranMerah'))window.__heroUpdate&&window.__heroUpdate();if(window.__snap){if(q.has('bata'))window.__snap('bata');if(q.has('panel'))window.__snap('panel')}q.clear();save()};
   const bump=k=>{q.add(k);if(!raf)raf=requestAnimationFrame(flush)};
   function draw(){body.innerHTML=TABS[tab].map(([k,n])=>`<h4>${n}</h4>`+Object.keys(CFG[k]).map(f=>{const d=F[f];return `<label><span>${d[0]}</span><input type="range" min="${d[1]}" max="${d[2]}" step="${d[3]}" value="${CFG[k][f]}" data-k="${k}" data-f="${f}"><input type="number" step="${d[3]}" value="${CFG[k][f]}" data-k="${k}" data-f="${f}"></label>`}).join('')).join('');
